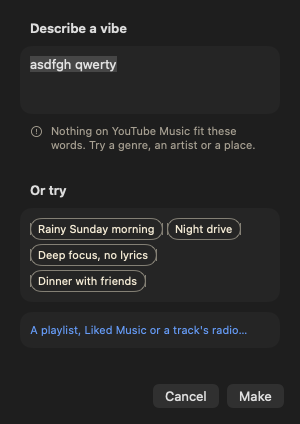
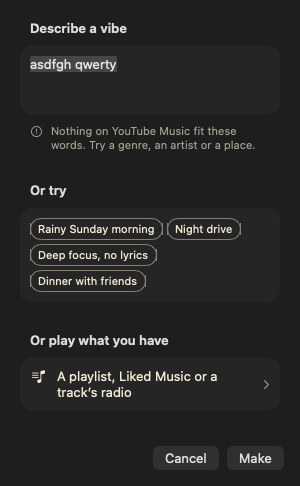
New Vibe: vibes left this month, the other way as a row, Name as a row
The server's /v1/health says how many vibes a Mac has left when asked with
its install ID in a header; the sheet and Settings show it. "A playlist,
Liked Music or a track's radio" is a row with a chevron under its own
heading, and the preview's Name is a form row like Vocals and Artists.

diff --git a/Sources/BSide/Views/NewVibeSheet.swift b/Sources/BSide/Views/NewVibeSheet.swift
@@ -67,10 +67,14 @@ struct NewVibeSheet: View {
     @State private var work: Task<Void, Never>?
     /// The songs are being found again after a change in the preview.
     @State private var refinding = false
+    /// With the server on: how many vibes this Mac has left this month.
+    @State private var quota: VibeServer.Health?
 
     static let examples = ["Rainy Sunday morning", "Night drive", "Deep focus, no lyrics", "Dinner with friends"]
 
-    init(replacing: Mood? = nil, step: Step = .describe, prompt: String? = nil, pickSource: @escaping () -> Void = {}) {
+    init(replacing: Mood? = nil, step: Step = .describe, prompt: String? = nil, quota: VibeServer.Health? = nil,
+         pickSource: @escaping () -> Void = {}) {
+        _quota = State(initialValue: quota)
         var words = prompt ?? ""
         if prompt == nil, case .described(let saved, _) = replacing?.source { words = saved }
         _prompt = State(initialValue: words)
@@ -95,6 +99,25 @@ struct NewVibeSheet: View {
         .frame(width: Theme.Size.editorWidth)
         .animation(.easeInOut(duration: Theme.Motion.feedback * 2), value: step)
         .onDisappear { work?.cancel() }
+        // Asked when the sheet opens and after each vibe made.
+        .task(id: isDescribing) {
+            guard isDescribing, VibeServer.isOn, let url = VibeServer.address else { return }
+            if let health = await VibeServer.health(at: url) { quota = health }
+        }
+    }
+
+    private var isDescribing: Bool {
+        switch step {
+        case .describe, .nothing, .failed: true
+        case .making, .preview: false
+        }
+    }
+
+    /// Under the words, with the server on: what is left of the month.
+    private var quotaText: String? {
+        guard let quota, quota.open, let left = quota.left else { return nil }
+        return left > 0 ? quota.leftText.map { $0 + "." }
+            : "This month\u{2019}s \(quota.perMonth) vibes are used; this Mac reads the words until next month."
     }
 
     // MARK: - Making
@@ -177,7 +200,7 @@ struct NewVibeSheet: View {
             } header: {
                 Text("Describe a vibe")
             } footer: {
-                Group {
+                VStack(alignment: .leading, spacing: 0) {
                     switch step {
                     case .nothing:
                         Label("Nothing on YouTube Music fit these words. Try a genre, an artist or a place.",
@@ -190,6 +213,10 @@ struct NewVibeSheet: View {
                              : VibeMaker.hasModel
                              ? "In any language. B-Side finds songs that fit and keeps playing more like them."
                              : "B-Side matches the words to YouTube Music\u{2019}s moods and searches for them. Turn on Apple Intelligence for a closer match.")
+                        if let quotaText {
+                            Text(quotaText)
+                                .padding(.top, Theme.Space.xxs)
+                        }
                     }
                 }
                 .font(Theme.Text.caption)
@@ -202,14 +229,25 @@ struct NewVibeSheet: View {
                     }
                 }
             }
+            // The other way to a tile, as a row of its own: it leads to
+            // the editor with its three kinds.
             if replacing == nil {
-                Section {
-                    Button("A playlist, Liked Music or a track's radio…") {
+                Section("Or play what you have") {
+                    Button {
                         dismiss()
                         pickSource()
+                    } label: {
+                        HStack(spacing: Theme.Space.xs) {
+                            Label("A playlist, Liked Music or a track\u{2019}s radio", systemImage: "music.note.list")
+                                .foregroundStyle(Theme.Colors.text)
+                            Spacer(minLength: 0)
+                            Image(systemName: "chevron.right")
+                                .imageScale(.small)
+                                .foregroundStyle(Theme.Colors.textMuted)
+                        }
+                        .contentShape(Rectangle())
                     }
-                    .buttonStyle(.link)
-                    .font(Theme.Text.caption)
+                    .buttonStyle(.plain)
                     .pointingHand()
                 }
             }
@@ -308,16 +346,18 @@ private struct Preview: View {
                                         source: .described(prompt: prompt, anchors: []), colour: spec.colour),
                              subtitle: "\u{201C}\(prompt)\u{201D}", isCurrent: false, isPlaying: false)
                     VStack(alignment: .leading, spacing: Theme.Space.xs) {
-                        TextField("Name", text: edited.name, prompt: Text("Name"))
-                            .labelsHidden()
                         Button(action: tryIt) {
                             Label("Try It", systemImage: "play.fill")
                         }
                         .buttonStyle(OutlineButtonStyle())
                         .disabled(refinding)
-                        .help("Play the first songs")
+                        Text("Plays the first songs.")
+                            .font(Theme.Text.caption)
+                            .foregroundStyle(Theme.Colors.textMuted)
                     }
                 }
+                // A row of its own, like the two under it: plainly a field.
+                TextField("Name", text: edited.name, prompt: Text("Untitled"))
                 Picker("Vocals", selection: edited.vocals) {
                     ForEach(VibeSpec.Vocals.allCases) { Text($0.rawValue).tag($0) }
                 }

diff --git a/Sources/BSide/VibeServer.swift b/Sources/BSide/VibeServer.swift
@@ -75,11 +75,21 @@ enum VibeServer {
     struct Health: Equatable {
         let open: Bool
         let perMonth: Int
+        /// How many of this month's vibes this Mac still has; nil when the
+        /// server does not say.
+        var left: Int?
+
+        /// "7 of 10 vibes left this month", for Settings and the sheet.
+        var leftText: String? {
+            left.map { "\($0) of \(perMonth) vibes left this month" }
+        }
     }
 
     /// Whether the server makes vibes now; nil when it cannot be reached.
     static func health(at base: URL) async -> Health? {
-        let request = URLRequest(url: base.appending(path: "v1/health"), timeoutInterval: timeout)
+        var request = URLRequest(url: base.appending(path: "v1/health"), timeoutInterval: timeout)
+        // So the server can say how many vibes this Mac has left.
+        request.setValue(installID, forHTTPHeaderField: "X-BSide-Install")
         let data: Data, response: URLResponse
         do {
             (data, response) = try await URLSession.shared.data(for: request)
@@ -89,7 +99,8 @@ enum VibeServer {
         }
         guard (response as? HTTPURLResponse)?.statusCode == 200,
               let body = try? JSONSerialization.jsonObject(with: data) as? [String: Any] else { return nil }
-        return Health(open: body["vibes"] as? Bool ?? false, perMonth: body["perMonth"] as? Int ?? 0)
+        return Health(open: body["vibes"] as? Bool ?? false, perMonth: body["perMonth"] as? Int ?? 0,
+                      left: body["left"] as? Int)
     }
 }
 

diff --git a/Sources/BSide/Views/SettingsView.swift b/Sources/BSide/Views/SettingsView.swift
@@ -221,7 +221,7 @@ private struct VibeSettings: View {
 
     private enum Status: Equatable {
         case checking, unreachable, closed
-        case open(perMonth: Int)
+        case open(VibeServer.Health)
     }
 
     var body: some View {
@@ -257,7 +257,7 @@ private struct VibeSettings: View {
             // may take a while to reach this Mac's DNS.
             while !Task.isCancelled {
                 if let url = VibeServer.address, let health = await VibeServer.health(at: url) {
-                    status = health.open ? .open(perMonth: health.perMonth) : .closed
+                    status = health.open ? .open(health) : .closed
                     if health.open { return }
                 } else {
                     status = .unreachable
@@ -275,7 +275,7 @@ private struct VibeSettings: View {
             case .checking: Text("Checking…")
             case .unreachable: Text("Cannot be reached")
             case .closed: Text("Not open right now")
-            case .open(let perMonth): Text("Available, \(perMonth) vibes a month")
+            case .open(let health): Text("Available, " + (health.leftText ?? "\(health.perMonth) vibes a month"))
             }
         }
     }

diff --git a/server/api/v1/health.ts b/server/api/v1/health.ts
@@ -1,9 +1,14 @@
-import { budgetLeft, installMonthly } from "../../lib/limits.js";
-import { open } from "./vibe.js";
+import { budgetLeft, installMonthly, vibesLeft } from "../../lib/limits.js";
+import { installPattern, open } from "./vibe.js";
 
 /// Whether vibes can be made now, and how many a Mac gets a month, so the
-/// app can say so in Settings.
-export async function GET(): Promise<Response> {
+/// app can say so in Settings. With the Mac's install ID in the
+/// X-BSide-Install header, also how many it has left this month.
+export async function GET(request: Request): Promise<Response> {
   const vibes = open() && (await budgetLeft().catch(() => false));
-  return Response.json({ vibes, perMonth: installMonthly }, { headers: { "Cache-Control": "no-store" } });
+  const install = request.headers.get("x-bside-install") ?? "";
+  const left = vibes && installPattern.test(install)
+    ? await vibesLeft(install.toLowerCase()).catch(() => undefined)
+    : undefined;
+  return Response.json({ vibes, perMonth: installMonthly, left }, { headers: { "Cache-Control": "no-store" } });
 }

diff --git a/server/scripts/dev.ts b/server/scripts/dev.ts
@@ -17,7 +17,7 @@ createServer(async (incoming, outgoing) => {
     body: incoming.method === "POST" ? Buffer.concat(chunks) : undefined,
   });
   const response = url.pathname === "/v1/vibe" && incoming.method === "POST" ? await vibe(request)
-    : url.pathname === "/v1/health" ? await health()
+    : url.pathname === "/v1/health" ? await health(request)
     : new Response("Not found", { status: 404 });
   outgoing.writeHead(response.status, Object.fromEntries(response.headers));
   outgoing.end(Buffer.from(await response.arrayBuffer()));

diff --git a/Sources/BSide/Design/Snapshots.swift b/Sources/BSide/Design/Snapshots.swift
@@ -139,6 +139,7 @@ enum Snapshots {
         let cases: [(String, NewVibeSheet)] = [
             ("describe-empty", NewVibeSheet()),
             ("describe", NewVibeSheet(prompt: prompt)),
+            ("describe-quota", NewVibeSheet(prompt: prompt, quota: VibeServer.Health(open: true, perMonth: 10, left: 7))),
             ("nothing", NewVibeSheet(step: .nothing, prompt: "asdfgh qwerty")),
             ("making", NewVibeSheet(step: .making(1), prompt: prompt)),
             ("preview", NewVibeSheet(step: .preview(jazz), prompt: prompt)),

diff --git a/server/api/v1/vibe.ts b/server/api/v1/vibe.ts
@@ -6,7 +6,7 @@ import { maxWords, read, type Mix, type Reading } from "../../lib/reading.js";
 export const config = { maxDuration: 15 };
 
 const mixes: Mix[] = ["familiar", "both", "new"];
-const installPattern = /^[0-9a-f]{8}-[0-9a-f]{4}-[0-9a-f]{4}-[0-9a-f]{4}-[0-9a-f]{12}$/i;
+export const installPattern = /^[0-9a-f]{8}-[0-9a-f]{4}-[0-9a-f]{4}-[0-9a-f]{4}-[0-9a-f]{12}$/i;
 
 /// POST {words, mix, install} → {name, energy, tags, artists, vocals}.
 /// The words are not stored. Limits: per address, per install a month,

diff --git a/server/lib/limits.ts b/server/lib/limits.ts
@@ -48,6 +48,12 @@ export async function takeVibe(install: string): Promise<boolean> {
   return true;
 }
 
+/// How many of this month's vibes the install still has.
+export async function vibesLeft(install: string): Promise<number> {
+  const used = Number((await redis().get<number>(`vibe:install:${install}:${month()}`)) ?? 0);
+  return Math.max(0, installMonthly - used);
+}
+
 export async function returnVibe(install: string): Promise<void> {
   await redis().decr(`vibe:install:${install}:${month()}`);
 }

diff --git a/design/SCREENS.md b/design/SCREENS.md
@@ -95,7 +95,11 @@ Research: [docs/research/vibe-from-prompt.md](../docs/research/vibe-from-prompt.
   4) the first songs in one line
 - Steps, in one sheet:
   - Describe: a field of three to five lines, a line on what happens, four
-    example chips, the link to the other kinds of tile
+    example chips, and "Or play what you have": a row with a chevron to the
+    other kinds of tile (a row, not a link, since 2026-10-02). With the
+    server on, a line under the words: "7 of 10 vibes left this month."
+  - Preview's top (since 2026-10-02): the tile with Try It beside it, then
+    Name as a row of its own above Vocals and Artists
   - Making: the words in quotes, three stages with a check, a spinner or an
     empty circle (reading the words, finding artists on YouTube Music,
     picking the first songs). Only Cancel

diff --git a/server/README.md b/server/README.md
@@ -21,7 +21,9 @@ limits and costs are in [docs/plans/vibe-server.md](../docs/plans/vibe-server.md
 
 - `POST /v1/vibe` with `{"words": "...", "mix": "familiar" | "both" | "new"}`
   returns `{moment, energy, name, tags, artists, vocals}`.
-- `GET /v1/health` returns `{"vibes": true}` when vibes can be made.
+- `GET /v1/health` returns `{"vibes": true, "perMonth": 10}` when vibes
+  can be made. With the install ID in the `X-BSide-Install` header, also
+  `"left"`: how many of this month's vibes that Mac still has.
 
 ## Limits
 
